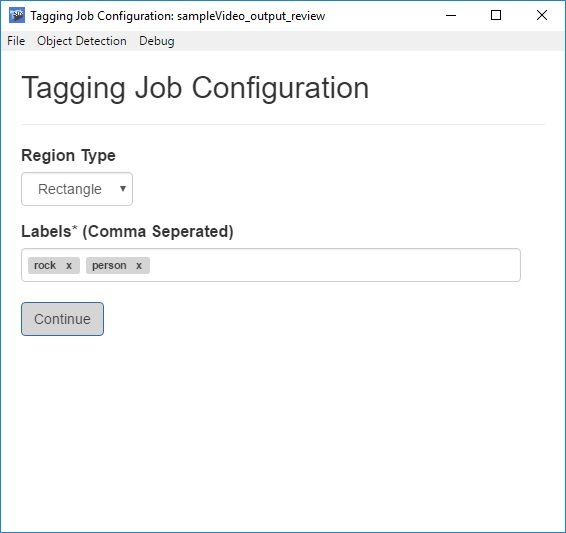
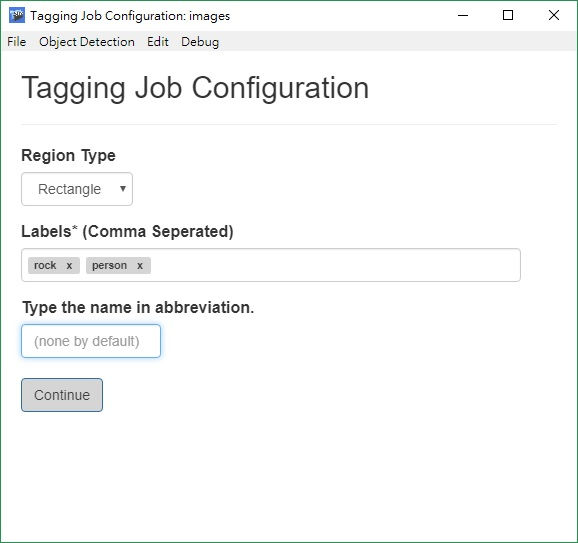
labeler name and filename
labeler name and filename

diff --git a/README.md b/README.md
@@ -1,8 +1,13 @@
 # VoTT: Visual Object Tagging Tool
 
-This tool provides end to end support for generating datasets and validating object detection models from video and image assets.
+
+
+This tool provides end to end support for generating datasets and validating object detection models from video and image assets. The generated output data would be further the input into the CNTK. 
+
+
 
 ### End to End Object Detection Pipeline:
+
 ![Pipeline: tag video, export tags to CNTK, train model, run model on a new video, validate model suggestions and fix errors, return to export tags](media/detectioninabox.jpg)
 
 The tool supports the following **features**:
@@ -12,30 +17,59 @@ The tool supports the following **features**:
 - Exporting tags and assets to CNTK or YOLO format for training an object detection model.
 - Running and validating a trained CNTK object detection model on new videos to generate stronger models.
 
+
+
+
+
+### Version ChangeLog
+
+The origin VoTT created by Microsoft team is refered to https://github.com/Microsoft/VoTT . The fork version is 1.0.8.
+
+The variation version takes nodejs as the core and add some others info to the output file for different purposes. 
+
+*   V1.0.0 - 2018-02-13
+    *   add labeler tag
+    *   automatically generating image filename
+
+
+
+
+
 ## Table of Contents
 
  - [Installation](#installation)
  - [Tagging a Video](#tagging-a-video)
  - [Tagging an Image Directory](#tagging-an-image-directory)
  - [Reviewing and Improving an Object Detection Model](#reviewing-and-improving-an-object-detection-model)
+ - [Supporting additonal object detection Export and Review formats](#supporting-additonal-object-detection-export-and-review-formats)
  - [Upcoming Features](#upcoming-features)
  - [How to Contribute](#how-to-contribute)
 
 
 
+
 ## Installation
 
-### Installing the Visual Object Tagging Tool
 
-  1. Download and extract the app [release package](https://github.com/CatalystCode/CNTK-Object-Detection-Video-Tagging-Tool/releases)
-  2. Run the app by launching the "VOTT" executable which will be located inside the unzipped folder.
-  3. Run as the server (Install **node.js** first).
 
-```bash
-cd VOTT-win32-x64\resources\app
+### Starting Visual Object Tagging Tool 
+
+*   Install the [Nodejs](https://nodejs.org/en/).
+*   Clone the app.
+
+```shell
+git clone https://github.com/jiankaiwang/vott.git
+```
+
+*   Run the app.
+
+```shell
+cd vott
 npm install
 npm start
 ```
+
+
 
  ### Installing CNTK with the FRCNN Prerequisites for Reviewing Model
 
@@ -52,80 +86,84 @@ npm start
     "cntkPath" : "{CNTK Path default is c:/local/cntk}",
 }
 ```
+
+
+
 ## Tagging a Video
 
- 1. Select the option to tag a video
+1.  Select the option to tag a video.
 
-    ![](media/video-option.jpg)
+![](media/video-option.jpg)
 
- 2. Load an MP4 video file either by dragging it into the app or clicking on and selecting it.
+2.  Load an MP4 video file either by dragging it into the app or clicking on and selecting it.
 
-    ![](media/2_load.jpg)
+![](media/2_load.jpg)
 
- 3. Configure the tagging job and specify the settings in the screenshot below:
+3.  Configure the tagging job and specify the settings in the screenshot below:
 
-    ![](media/3_Job_Configuration.jpg)
+![](media/3_Job_Configuration.jpg)
 
-    **Frame Extraction Rate**: number of frames to tag per second of video<br>
+**Frame Extraction Rate**: number of frames to tag per second of video<br>
 
-    **Tagging Region Type**:  type of bounding box for tagging regions<br>
-      - *Rectangle*: tag bounding boxes of any dimension
-      - *Square*: tag bounding boxes of auto-fixed dimensions
+**Tagging Region Type**:  type of bounding box for tagging regions<br>
+  - *Rectangle*: tag bounding boxes of any dimension
+  - *Square*: tag bounding boxes of auto-fixed dimensions
 
-    **Suggested Region Method**: how to suggest regions for next frame<br>
-     - *Tracking*: Use camshift to track tagged regions in next frame
-     - *Copy Last Frame*: Copy all regions to the next frame.
+**Suggested Region Method**: how to suggest regions for next frame<br>
+ - *Tracking*: Use camshift to track tagged regions in next frame
+ - *Copy Last Frame*: Copy all regions to the next frame.
 
-    **Enable Scene Change Detection**: Detect scene changes to prevent false positives when tracking. (Note this option is slightly slower)
+**Enable Scene Change Detection**: Detect scene changes to prevent false positives when tracking. (Note this option is slightly slower)
 
-    **Labels**: labels of the tagged regions (e.g. `Cat`, `Dog`, `Horse`, `Person`)<br>
+**Labels**: labels of the tagged regions (e.g. `Cat`, `Dog`, `Horse`, `Person`)<br>
 
- 4. Tag the video frame by frame
+**Type the name in abbreviation**: labeler name (optional)
 
-    ![](media/4_Tagging_Job.jpg)
+4.  Tag the video frame by frame
 
-    **Tagging**: click and drag a bounding box around the desired area, then move or resize the region until it fits the object
-     - Selected regions appear as red ![red](https://placehold.it/15/f03c15/000000?text=+) and unselected regions will appear as blue ![#1589F0](https://placehold.it/15/1589F0/000000?text=+).
-     - Assign a tag to a region by clicking on it and selecting the desired tag from the labeling toolbar at the bottom of the tagging control
-     - Click the ![cleartags](media/cleartags.png) button to clear all tags on a given frame
+![](media/4_Tagging_Job.jpg)
 
-    **Navigation**: users can navigate between video frames by using the ![prev-nxt](media/prev-next.png) buttons, the left/right arrow keys, or the video skip bar
-     - Tags are auto-saved each time a frame is changed
+**Tagging**: click and drag a bounding box around the desired area, then move or resize the region until it fits the object
+ - Selected regions appear as red ![red](https://placehold.it/15/f03c15/000000?text=+) and unselected regions will appear as blue ![#1589F0](https://placehold.it/15/1589F0/000000?text=+).
+ - Assign a tag to a region by clicking on it and selecting the desired tag from the labeling toolbar at the bottom of the tagging control
+ - Click the ![cleartags](media/cleartags.png) button to clear all tags on a given frame
 
-    **Tracking**: new regions are tracked by default until a given scene changes.
-     - Since the [camshift algorithm](http://opencv.jp/opencv-1.0.0_org/docs/papers/camshift.pdf) has some known limitations, you can disable tracking for certain sets of frames. To toggle tracking *on* and *off* use the file menu setting, or the keyboard shortcut Ctrl/Cmd + T.
+**Navigation**: users can navigate between video frames by using the ![prev-nxt](media/prev-next.png) buttons, the left/right arrow keys, or the video skip bar
+ - Tags are auto-saved each time a frame is changed
 
+**Tracking**: new regions are tracked by default until a given scene changes.
+ - Since the [camshift algorithm](http://opencv.jp/opencv-1.0.0_org/docs/papers/camshift.pdf) has some known limitations, you can disable tracking for certain sets of frames. To toggle tracking *on* and *off* use the file menu setting, or the keyboard shortcut Ctrl/Cmd + T.
 
- 5. Export video Tags using the Object Detection Menu or Ctrl/Cmd + E
+5.  Export video Tags using the Object Detection Menu or Ctrl/Cmd + E
 
-    ![]( media/5_Export.jpg)
-    
-    *Note on exporting: the tool reserves a random 20% sample of the tagged frames as a test set.*
+![](media/5_Export.jpg)
 
-    Specify the following export configuration settings:
-    
-    ![]( media/5a_Export.jpg)
-    
-    - **Export Format**: What framework to export to defaults to *CNTK*<br>
-    - **Export Frames Until**: how far into the video the export operation will proceed<br>
-      - *Last Tagged Region*: exports frames up until the last frame containing tags
-      - *Last Visited Frame*: exports frames up until the last frame that the user explicitly visited
-      - *Last Frame*: exports all video frames<br>
+*Note on exporting: the tool reserves a random 20% sample of the tagged frames as a test set.*
+
+Specify the following export configuration settings:
+
+![](media/5a_Export.jpg)
+
+- **Export Format**: What framework to export to defaults to *CNTK*<br>
+- **Export Frames Until**: how far into the video the export operation will proceed<br>
+        - *Last Tagged Region*: exports frames up until the last frame containing tags
+        - *Last Visited Frame*: exports frames up until the last frame that the user explicitly visited
+        - *Last Frame*: exports all video frames<br>
     - **Output directory**: directory path for exporting training data<br>
 
----
+
 
 ## Tagging an Image Directory
 
- 1. Select the option to tag an image directory
+ -   Select the option to tag an image directory
 
     ![](media/image-option.jpg)
 
- 2. Load an image directory by selecting it.
+ -   Load an image directory by selecting it.
 
     ![](media/2_load.jpg)
 
- 3. Configure the tagging job and specify the settings in the screenshot below:
+ -   Configure the tagging job and specify the settings in the screenshot below:
 
     ![](media/3_image_Job_Configuration.jpg)
 
@@ -137,7 +175,9 @@ npm start
 
     **Labels**: labels of the tagged regions (e.g. `Cat`, `Dog`, `Horse`, `Person`)<br>
 
- 4. Tag each Image
+    **Type the name in abbreviation**: labeler name (optional)
+
+ -   Tag each Image
 
     ![](media/4_image_Tagging_Job.jpg)
 
@@ -149,24 +189,29 @@ npm start
     **Navigation**: users can navigate between video frames by using the ![prev-nxt](media/prev-next.png) buttons, the left/right arrow keys, or the video skip bar
      - Tags are auto-saved each time a frame is changed
 
- 5. Export Image directory tags Tags using the Object Detection Menu or Ctrl/Cmd + E
+ -   Export Image directory tags Tags using the Object Detection Menu or Ctrl/Cmd + E
 
-    ![]( media/5_image_Export.jpg)
-    
+    ![](media/5_image_Export.jpg)
+
     *Note on exporting: the tool reserves a random 20% sample of the tagged frames as a test set.*
 
     Specify the following export configuration settings:
-    
-    ![]( media/5a_Export.jpg)
-    
-    - **Export Format**: What framework to export to defaults to *CNTK*<br>
-    - **Export Frames Until**: how far into the video the export operation will proceed<br>
-      - *Last Tagged Region*: exports frames up until the last frame containing tags
-      - *Last Visited Frame*: exports frames up until the last frame that the user explicitly visited
-      - *Last Frame*: exports all video frames<br>
-    - **Output directory**: directory path for exporting training data<br>
 
----
+    ![](media/5a_Export.jpg)
+
+-   **Export Format**: What framework to export to defaults to *CNTK*<br>
+
+-   **Export Frames Until**: how far into the video the export operation will proceed<br>
+
+    *   **Last Tagged Region**: exports frames up until the last frame containing tags
+    *   **Last Visited Frame**: exports frames up until the last frame that the user explicitly visited
+    *   **Last Frame**: exports all video frames<br>
+
+*    **Output directory**: directory path for exporting training data<br>
+
+
+
+
 ## Reviewing and Improving an Object Detection Model
 
  1. Train model with [Object Detection using FastRCNN](https://github.com/Microsoft/CNTK/wiki/Object-Detection-using-Fast-R-CNN#train-on-your-own-data)<br> *Note: the data is already in CNTK format, so you do not have to run `C1_DrawBboxesOnImages.py` or `C2_AssignLabelsToBboxes.py`*
@@ -191,15 +236,20 @@ npm start
  7. Repeat step 1 on new assets until the model performance is satisfactory
 
 
+
+
 ## Supporting additonal object detection Export and Review formats.
 
 In the latest release we provide support for [Export and Review formats](https://github.com/CatalystCode/VOTT/tree/master/src/lib/detection_algorithms). To add a new object detection format, copy the interface folder and use the Yolo and CNTK implementations as reference. 
+
+
 
 ## Upcoming Features 
 
 - Tagging project management
 
------------
+
+
 
 ## How to Contribute
 
